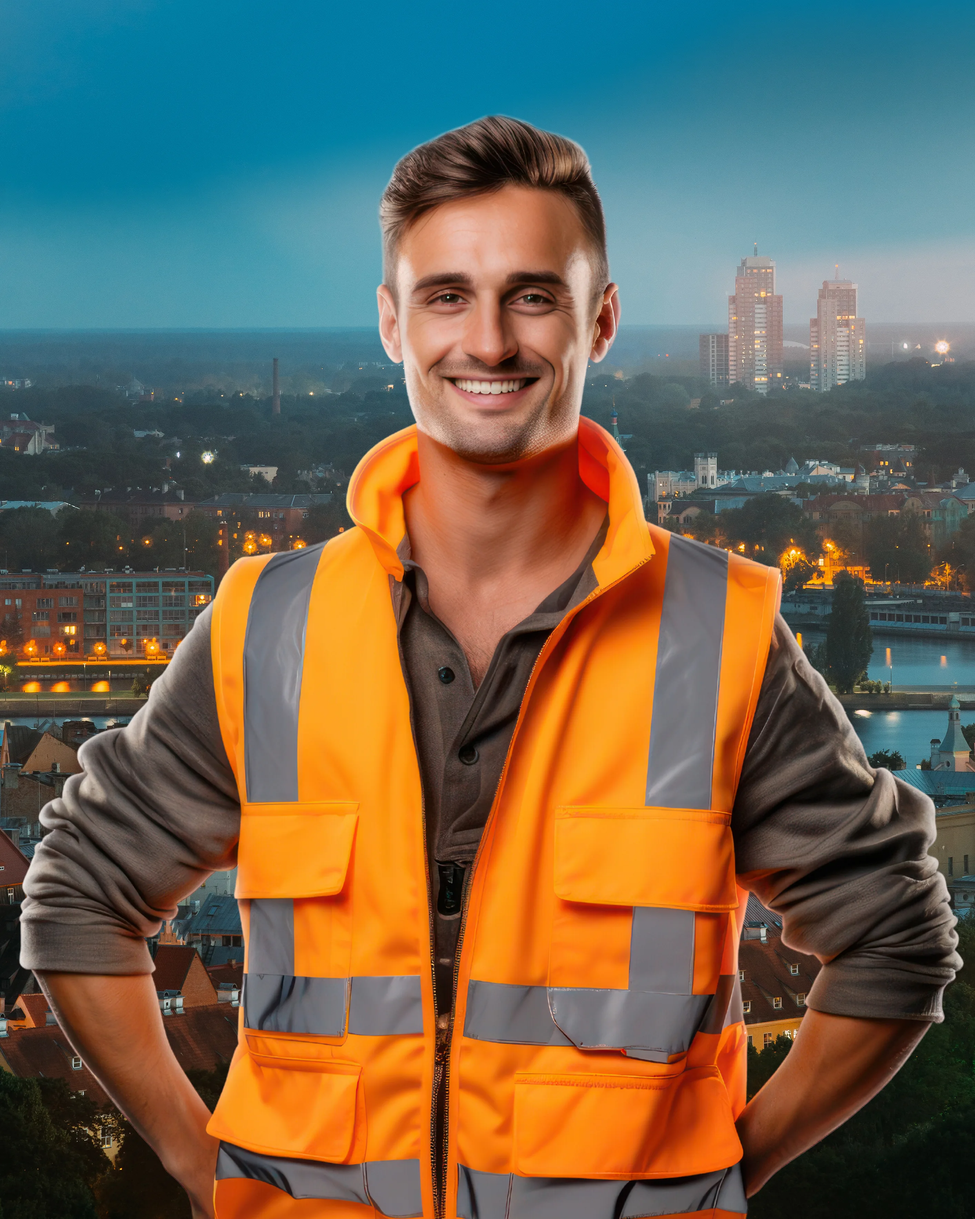
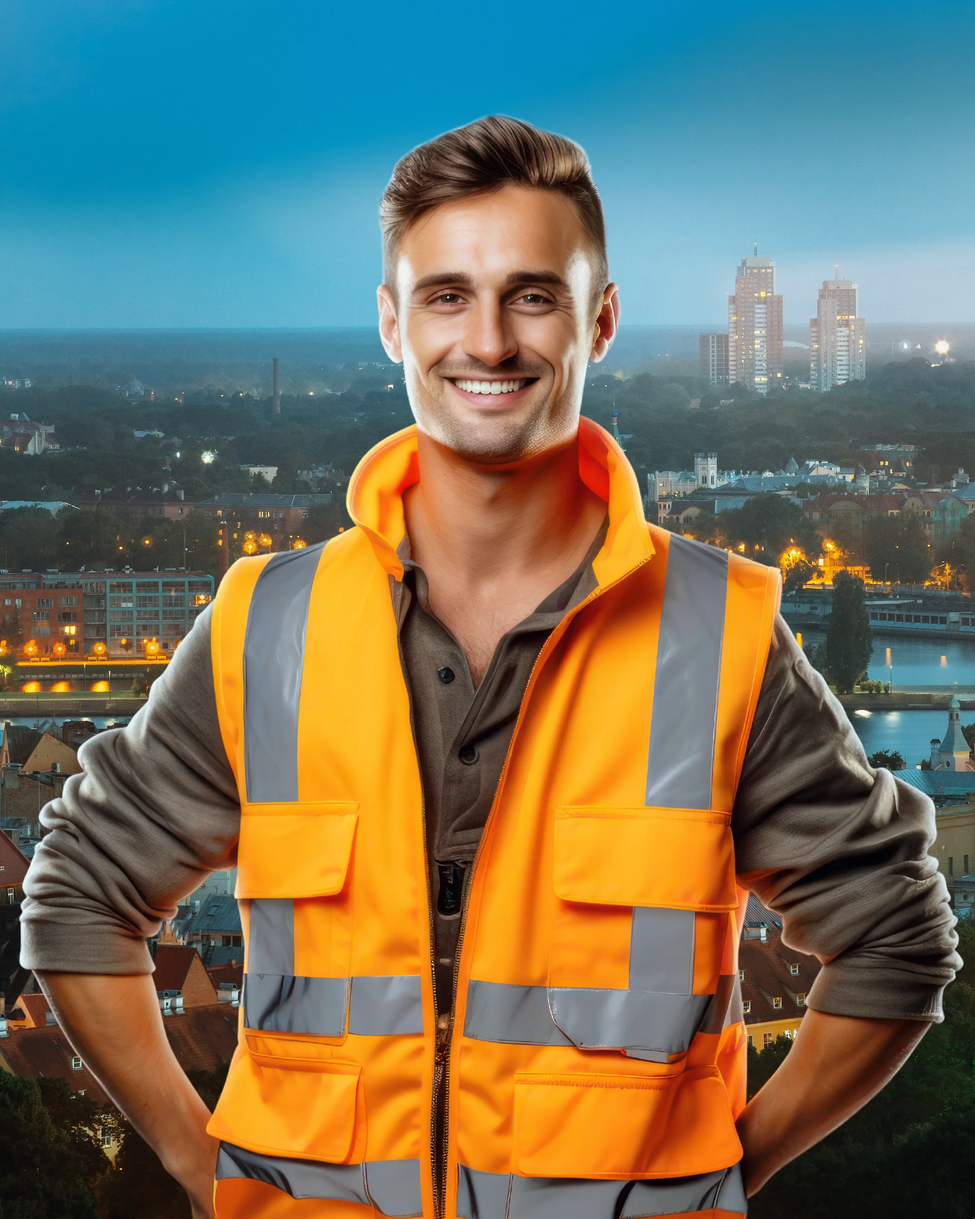
Replace JPG images with WEBP format for improved performance and remove unused SVG files

diff --git a/src/features/home/constant.ts b/src/features/home/constant.ts
@@ -83,28 +83,28 @@ export const SERVICES = [
     title: "Work Permit",
     description:
       "Expand your business globally with our seamless business visa services, ensuring fast and efficient processing for all your corporate travel needs.",
-    image: "/images/service-1.jpg",
+    image: "/images/service-1.webp",
   },
   {
     id: 2,
     title: "Tourist Visa",
     description:
       "Expand your business globally with our seamless business visa services, ensuring fast and efficient processing for all your corporate travel needs.",
-    image: "/images/service-1.jpg",
+    image: "/images/service-1.webp",
   },
   {
     id: 3,
     title: "Business Visa",
     description:
       "Expand your business globally with our seamless business visa services, ensuring fast and efficient processing for all your corporate travel needs.",
-    image: "/images/service-1.jpg",
+    image: "/images/service-1.webp",
   },
   {
     id: 4,
     title: "Residence Visa",
     description:
       "Expand your business globally with our seamless business visa services, ensuring fast and efficient processing for all your corporate travel needs.",
-    image: "/images/service-1.jpg",
+    image: "/images/service-1.webp",
   },
 ];
 

diff --git a/src/features/home/sections/feedbacks.tsx b/src/features/home/sections/feedbacks.tsx
@@ -13,7 +13,7 @@ export const Feedbacks = () => {
           <LogoIcon aria-hidden="true" className="max-md:size-6" />
         </div>
         <Image
-          src="/images/feedback.jpg"
+          src="/images/feedback.webp"
           fill
           sizes="(max-width: 768px) 100vw, 33vw"
           alt="Happy clients working with Astro Overseas"

diff --git a/src/features/home/sections/why-choose-us.tsx b/src/features/home/sections/why-choose-us.tsx
@@ -32,7 +32,7 @@ export const WhyChooseUs = () => {
           </p>
         </div>
         <Image
-          src="/images/expertise.jpg"
+          src="/images/expertise.webp"
           fill
           alt="Professional immigration consultants working with clients"
           className="object-cover"
